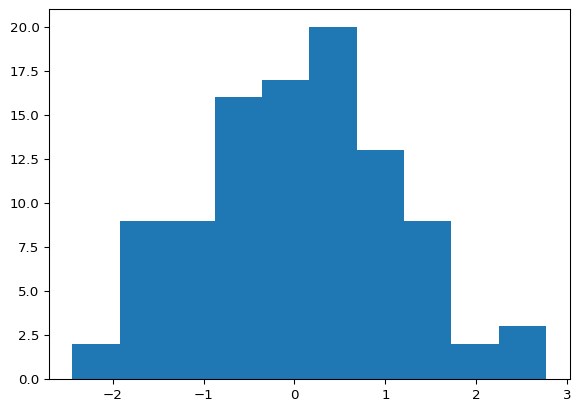
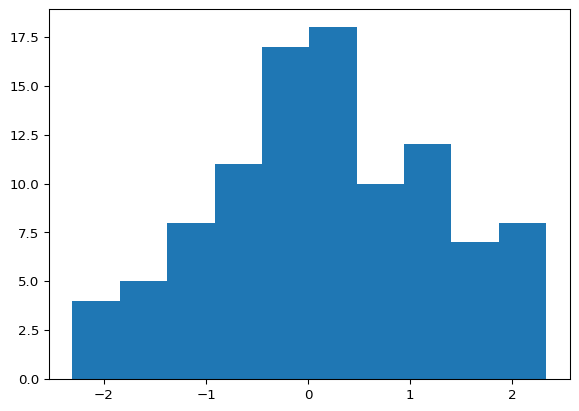
Built site for gh-pages

diff --git a/units/unit1.html b/units/unit1.html
@@ -287,7 +287,7 @@ window.Quarto = {
 <p>This is an example of using qmd as the source document.</p>
 <section id="evaluated-python-code-chunk-with-a-plot" class="level2">
 <h2 class="anchored" data-anchor-id="evaluated-python-code-chunk-with-a-plot">Evaluated Python code chunk, with a plot</h2>
-<div id="9953d818" class="cell" data-execution_count="1">
+<div id="c51eb92b" class="cell" data-execution_count="1">
 <details open="" class="code-fold">
 <summary>Code</summary>
 <div class="sourceCode cell-code" id="cb1"><pre class="sourceCode python code-with-copy"><code class="sourceCode python"><span id="cb1-1"><a href="#cb1-1" aria-hidden="true" tabindex="-1"></a><span class="im">import</span> numpy <span class="im">as</span> np</span>
@@ -305,7 +305,7 @@ window.Quarto = {
 </div>
 </div>
 <div class="cell-output cell-output-display" data-execution_count="1">
-<pre><code>np.float64(0.036526759633125516)</code></pre>
+<pre><code>np.float64(0.1689564320787128)</code></pre>
 </div>
 </div>
 </section>
@@ -358,7 +358,7 @@ Tip with Title
 </div>
 <div id="tabset-1-2" class="tab-pane" role="tabpanel" aria-labelledby="tabset-1-2-tab">
 <p>This code is executed.</p>
-<div id="6c9279e1" class="cell" data-execution_count="2">
+<div id="0006f259" class="cell" data-execution_count="2">
 <details open="" class="code-fold">
 <summary>Code</summary>
 <div class="sourceCode cell-code" id="cb4"><pre class="sourceCode python code-with-copy"><code class="sourceCode python"><span id="cb4-1"><a href="#cb4-1" aria-hidden="true" tabindex="-1"></a><span class="kw">def</span> fizz_buzz(num):</span>

diff --git a/index.html b/index.html
@@ -412,14 +412,14 @@ a.unpublished {
                 <td id="td-schedule">
                 
                   
-                    <a href="https://berkeley.edu">Note 1</a>
+                    </td><td><a href="https://berkeley.edu">Note 1</a></td>
                   
                   
                   
-                    <a href="https://berkeley.edu">Note 2</a>
+                    <td><a href="https://berkeley.edu">Note 2</a></td>
                   
                   
-                </td>
+                
            
                 
            </tr>
@@ -457,14 +457,14 @@ a.unpublished {
                 <td id="td-schedule">
                 
                   
-                    <a href="https://berkeley.edu">Note 1</a>
+                    </td><td><a href="https://berkeley.edu">Note 1</a></td>
                   
                   
                   
-                    <a href="https://berkeley.edu">Note 2</a>
+                    <td><a href="https://berkeley.edu">Note 2</a></td>
                   
                   
-                </td>
+                
            
                 
            </tr>
@@ -544,10 +544,10 @@ a.unpublished {
                 <td id="td-schedule">
                 
                   
-                    <a href="https://berkeley.edu">Note 3</a>
+                    </td><td><a href="https://berkeley.edu">Note 3</a></td>
                   
                   
-                </td>
+                
            
                 
            </tr>

diff --git a/units/unit3.html b/units/unit3.html
@@ -288,7 +288,7 @@ $$
 <p>This is an example of using qmd as the source document with pdf as one target. I’ve taken out the qmd stuff that doesn’t seem to render to pdf.</p>
 <section id="evaluated-python-code-chunk-with-a-plot" class="level2">
 <h2 class="anchored" data-anchor-id="evaluated-python-code-chunk-with-a-plot">Evaluated Python code chunk, with a plot</h2>
-<div id="c72b1756" class="cell" data-execution_count="1">
+<div id="10abaab7" class="cell" data-execution_count="1">
 <details open="" class="code-fold">
 <summary>Code</summary>
 <div class="sourceCode cell-code" id="cb1"><pre class="sourceCode python code-with-copy"><code class="sourceCode python"><span id="cb1-1"><a href="#cb1-1" aria-hidden="true" tabindex="-1"></a><span class="im">import</span> numpy <span class="im">as</span> np</span>
@@ -306,7 +306,7 @@ $$
 </div>
 </div>
 <div class="cell-output cell-output-display" data-execution_count="1">
-<pre><code>np.float64(0.16966393852776399)</code></pre>
+<pre><code>np.float64(0.07115547938621204)</code></pre>
 </div>
 </div>
 </section>
